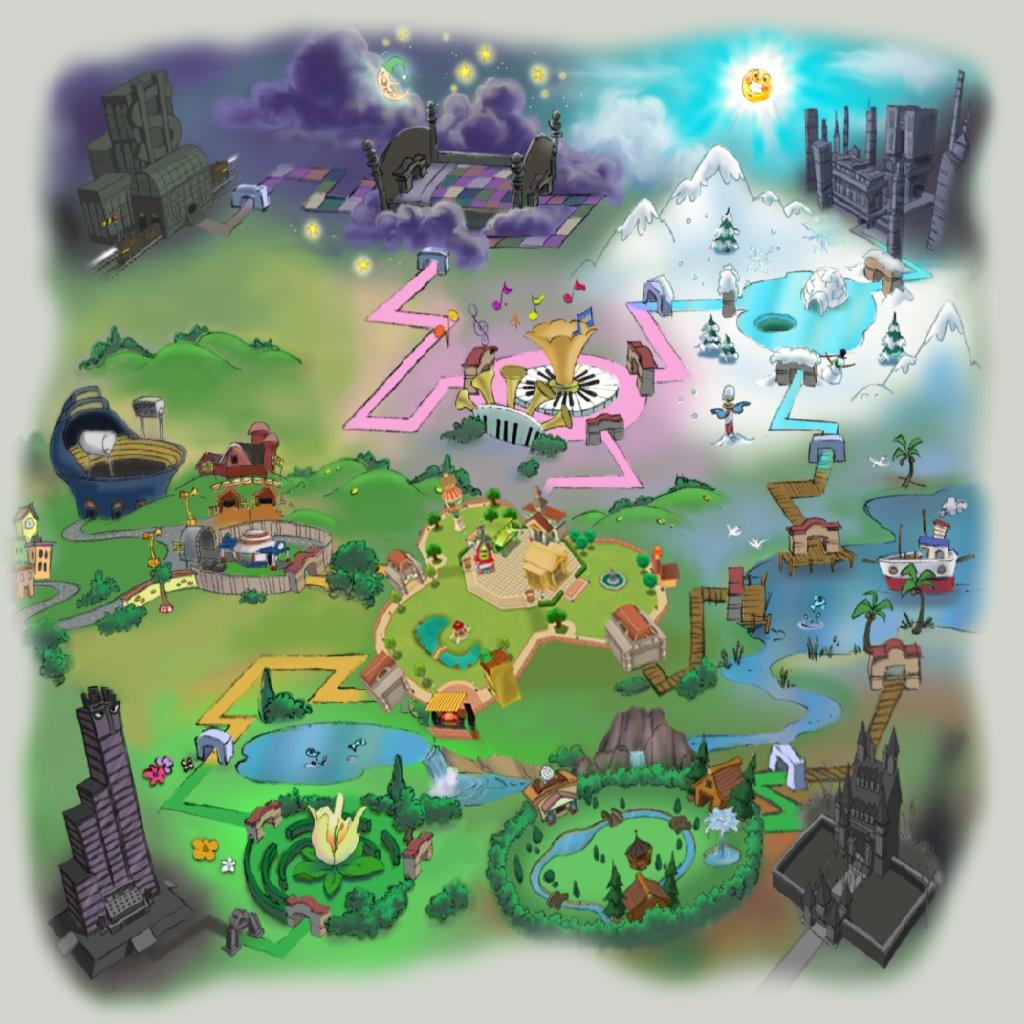
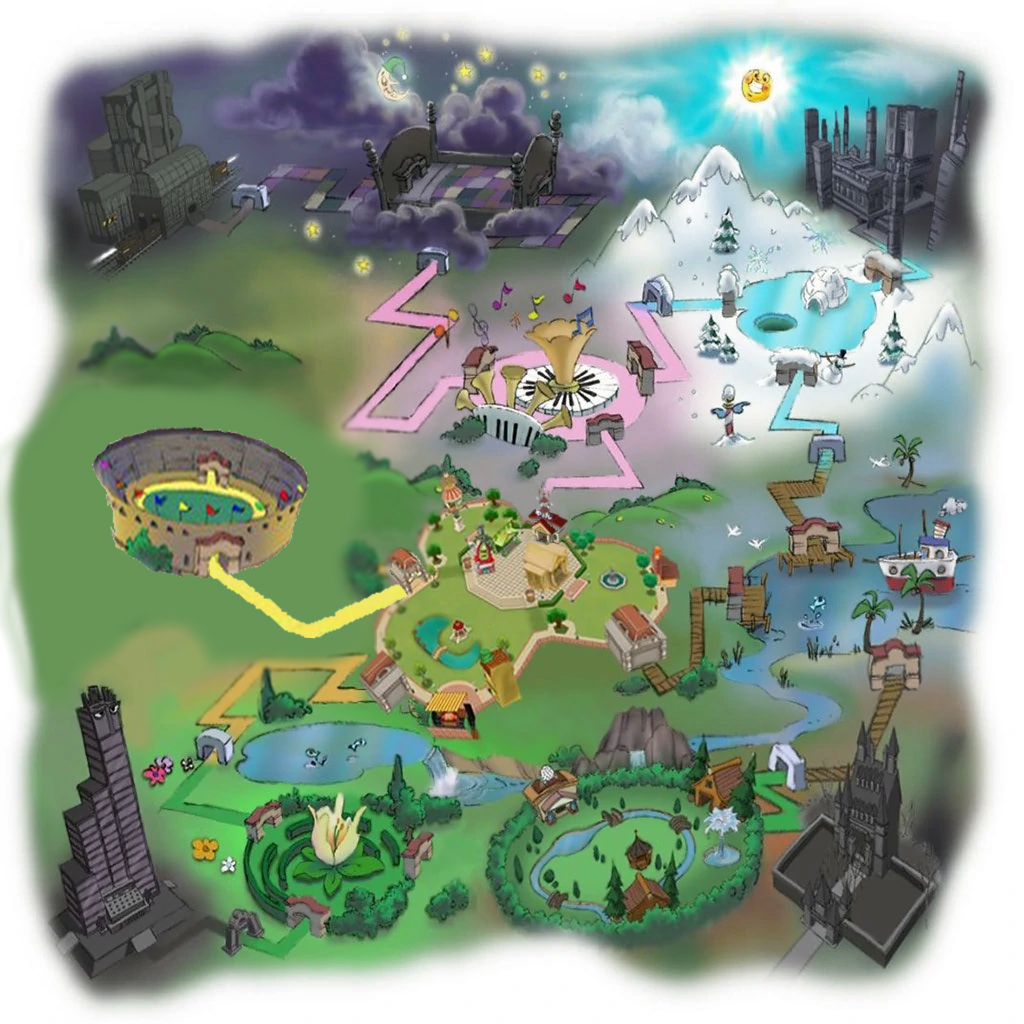
Updated stuff.
Added Toon Joey's credits and I updated the game map.

diff --git a/README.md b/README.md
@@ -28,13 +28,14 @@
 + Toontown Rewritten for reviving the spirit of Toontown and its community!
 + Disney Virtual Reality Studios and Schell Games for creating this ever-green video game!
 + Jesse Schell for fighting for Toontown Online's Official Return
-+ toonjoey for letting us use his project bikehorn assets for HD textures https://github.com/toonjoey/toontown-project-bikehorn
+
 ### Contributors:
 + Battery on Discord for helping me fix the Tuple error!
 + DarthM on Discord for various features including Credits, Genderless Toons, etc.
 + TrueBlueDogemon on Discord for implementing various Quality of Life features including Multiple SOS Cards.
 + Rocket for helping me implement Wide-Screen Support
 + DTM1218
++ ToonJoey for letting us use his project bikehorn assets for HD textures https://github.com/toonjoey/toontown-project-bikehorn
 
 ## - If you'd like to help out with features, create a branch and pull the code and implement it. Then join the Discord to tell me what you've changed and I'll review it and whether or not the code is good, I will approve the merge!
 
